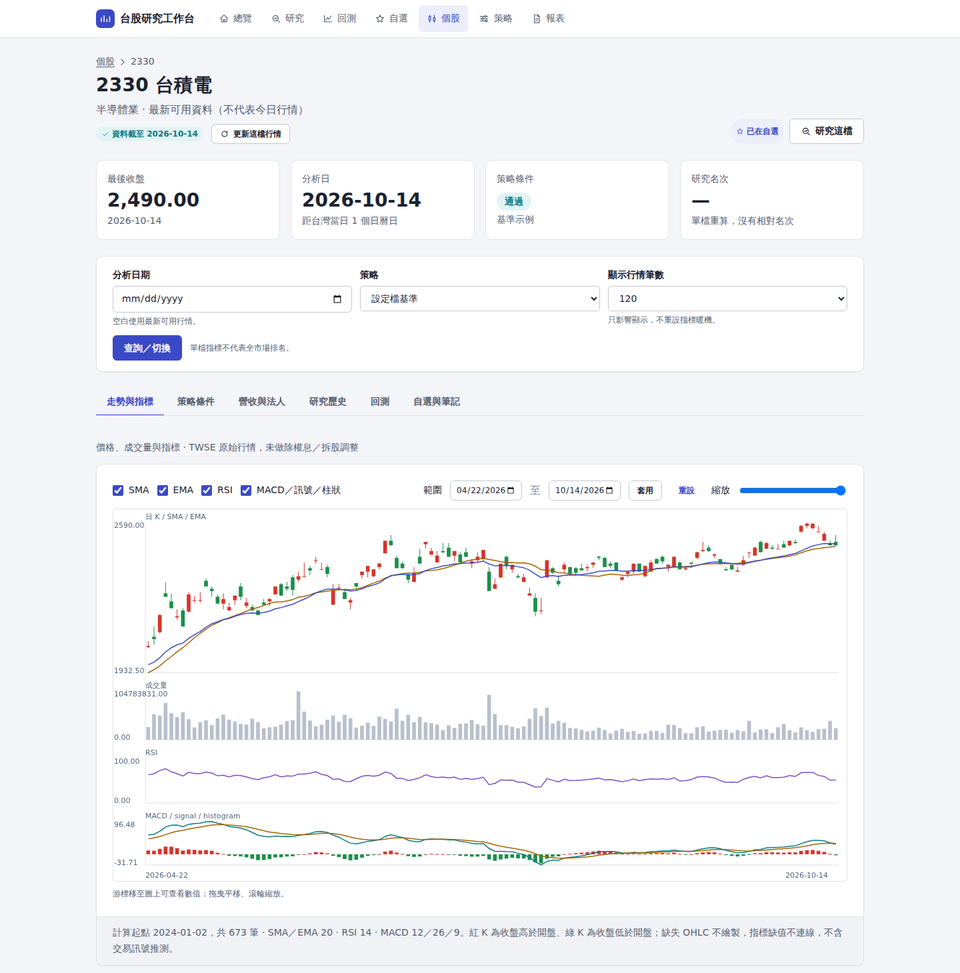
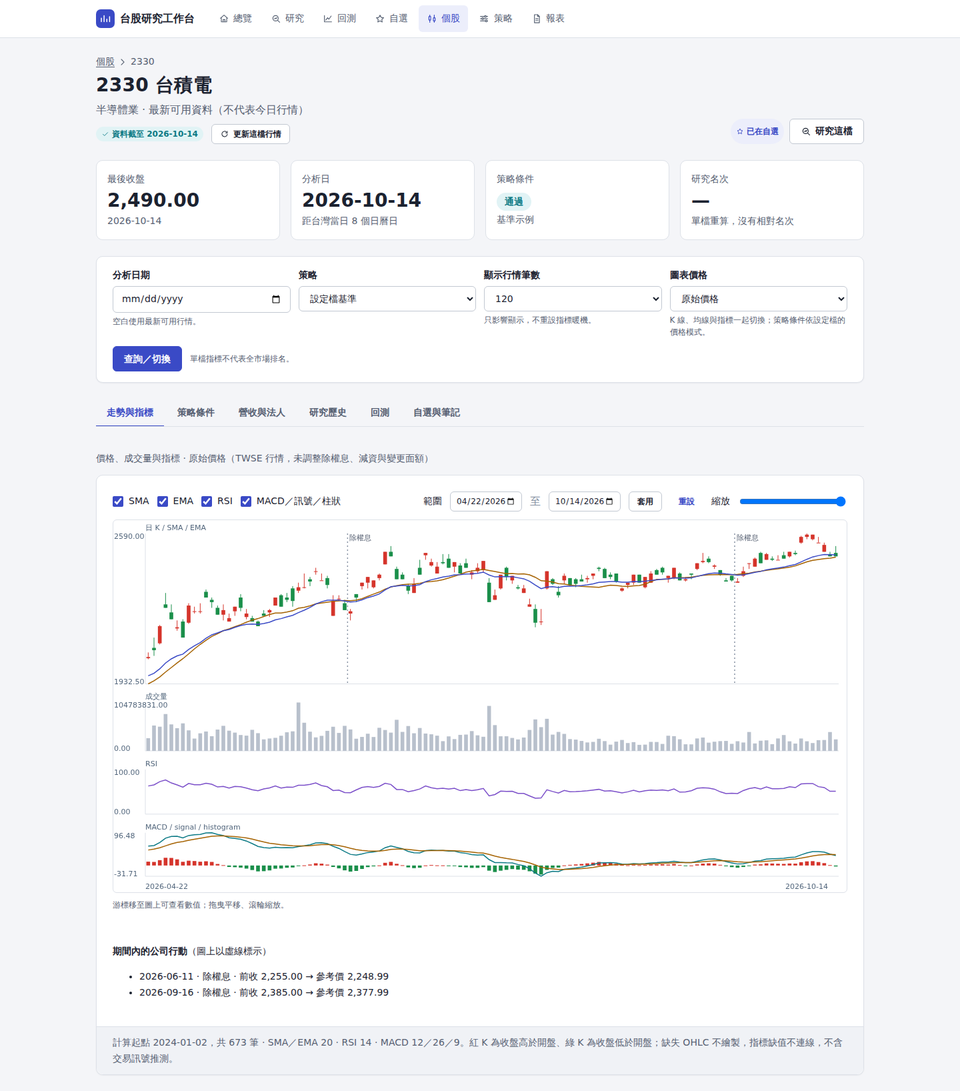
docs: retake outdated README screenshots and add stock search
The overview, stock page, research report, backtest report and mobile
new-research screenshots predated the corporate action and stock search
changes. They are retaken with tools/screenshots.py --real from the
local price database (still as of 2026-10-14; nothing was downloaded)
and a temporary watchlist without notes, then scaled from 1440 to 960
pixels wide like the existing images. They now show:

- overview: corporate action count and rows awaiting manual review
- stock page: the original/adjusted price switch and dividend markers
- research and backtest reports: the price basis line
- mobile new research: the industry filter above the stock picker

New images: stock search for "23" with the "63 matches, showing the
first 30" summary, the empty search page with the watchlist, recently
viewed stocks and industry list, and the backtest report's corporate
action and final holdings tables. The watchlist and adjusted-price
screenshots still match the current interface and are unchanged.

Captions describe what each image shows, and the section notes that
"8 calendar days ago" is counted from the capture date, 2026-10-22.

diff --git a/README.md b/README.md
@@ -38,7 +38,7 @@ Windows：目前不支援在 Windows 上直接執行（工作台使用只有 Lin
 
 工作台只監聽本機，不會自行下載；還沒有資料時，首頁會說明從哪裡開始。設定檔中的資料庫相對路徑以設定檔所在目錄為基準。
 
-![總覽：資料狀態、最近的工作與報表](docs/images/overview.png)
+![總覽：各類資料更新到哪一天（行情、上市名單、營收與法人），公司行動的筆數與待人工確認筆數，以及最近的工作與報表](docs/images/overview.png)
 
 ## 技術亮點
 
@@ -58,15 +58,23 @@ Windows：目前不支援在 Windows 上直接執行（工作台使用只有 Lin
 
 ## 畫面
 
-以下截圖使用本機真實行情（資料截至 2026-10-14，股票池為 2330、2317、2454），只展示功能，**不是投資建議或策略績效證明**。
+以下截圖使用本機真實行情（資料截至 2026-10-14，股票池為 2330、2317、2454；自選股是截圖用的暫存清單，沒有筆記），只展示功能，**不是投資建議或策略績效證明**。畫面上的「距今 8 個曆日」是以拍攝日 2026-10-22 計算。
 
 | 自選股 | 個股 |
 |---|---|
-| ![自選股：條件狀態、研究名次、營收與法人](docs/images/watchlist.png) | ![個股頁：資料截至日期、重點數字、K 線與指標](docs/images/stock.png) |
+| ![自選股：條件狀態、研究名次、營收與法人](docs/images/watchlist.png) | ![個股頁：資料截至日期、重點數字、可切換原始價格與還原價的 K 線與指標，圖上以虛線標出期間內的除權息](docs/images/stock.png) |
 
 | 研究排名 | 回測報表 |
 |---|---|
-| ![研究排名：候選股、總分與名次變化](docs/images/research-report.png) | ![回測報表：與買進持有並列的重點數字、資產與回撤](docs/images/backtest-report.png) |
+| ![研究排名：價格口徑、候選股、總分與相較前一次研究的名次變化](docs/images/research-report.png) | ![回測報表：價格口徑、與買進持有並列的重點數字、資產與回撤](docs/images/backtest-report.png) |
+
+| 股票搜尋 | 依產業瀏覽 |
+|---|---|
+| ![輸入 23：代號開頭符合的股票依代號排列，並提示共 63 筆符合、目前顯示前 30 筆](docs/images/stock-search.png) | ![未輸入時列出自選股、最近查看，以及各產業與檔數，點選即可依產業瀏覽](docs/images/stock-search-industry.png) |
+
+**回測的公司行動與期末持股**：除權息在生效日依前一日持股入帳現金，策略與買進持有基準套用同樣的規則；期末不強制賣出，以結束日收盤估值，停牌或缺價的持股會標出估值所用的價格日期。
+
+![回測報表的公司行動與期末持股：2330 除權息入帳的現金，以及每檔持股的股數、狀態、估值價與價格日期](docs/images/backtest-holdings.png)
 
 **原始價格與還原價**：6550 在 2026-09 減資（每千股換發約 520 股），原始價格把恢復買賣日畫成大漲 75%；個股頁切換成還原價後，減資前的價格依官方參考價回乘，K 線與均線、RSI、MACD 一起改用同一口徑，恢復買賣日實際是下跌約 9%。
 
@@ -75,7 +83,7 @@ Windows：目前不支援在 Windows 上直接執行（工作台使用只有 Lin
 <details>
 <summary>手機寬度：建立研究</summary>
 
-<img src="docs/images/mobile-new-research.png" alt="手機寬度的建立研究頁：股票以可移除的標籤呈現" width="320">
+<img src="docs/images/mobile-new-research.png" alt="手機寬度的建立研究頁：股票選擇器上方可先選產業，已選股票以可移除的標籤呈現" width="320">
 </details>
 
 ## 功能一覽
